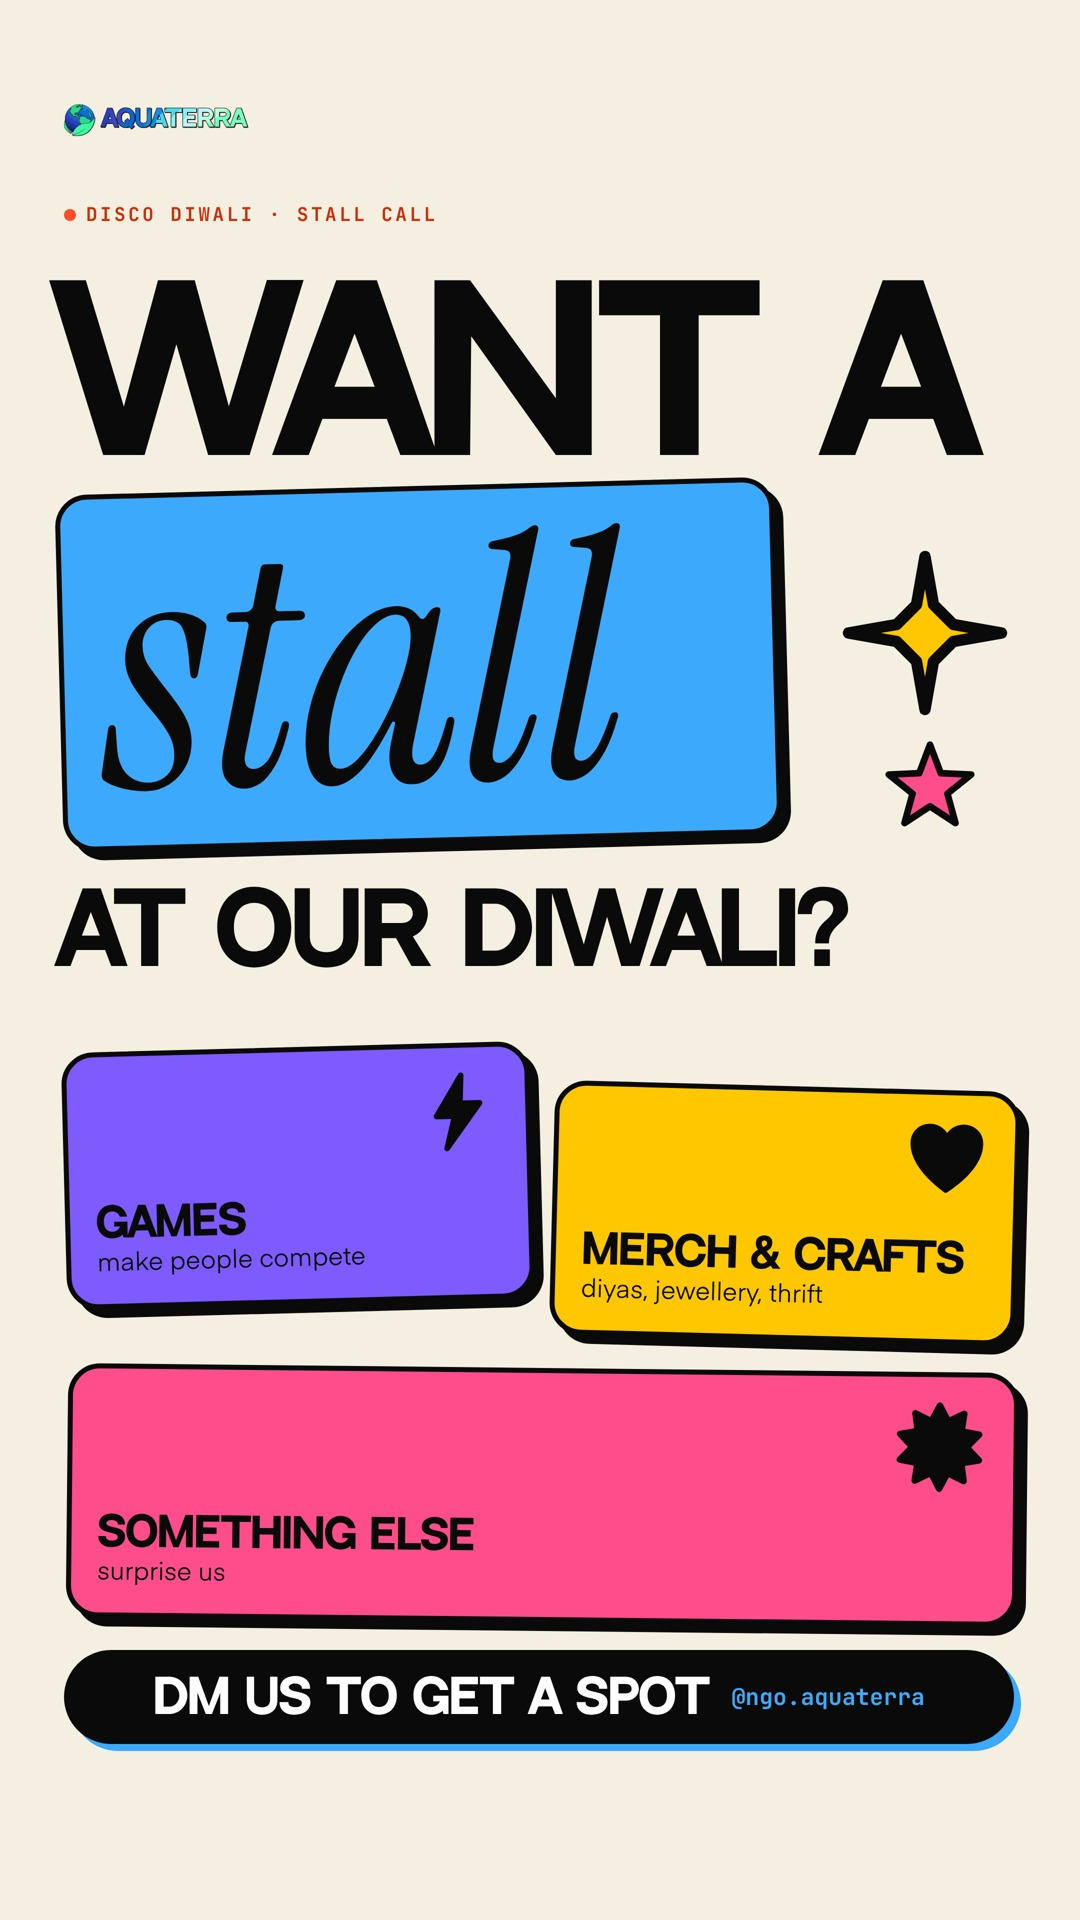
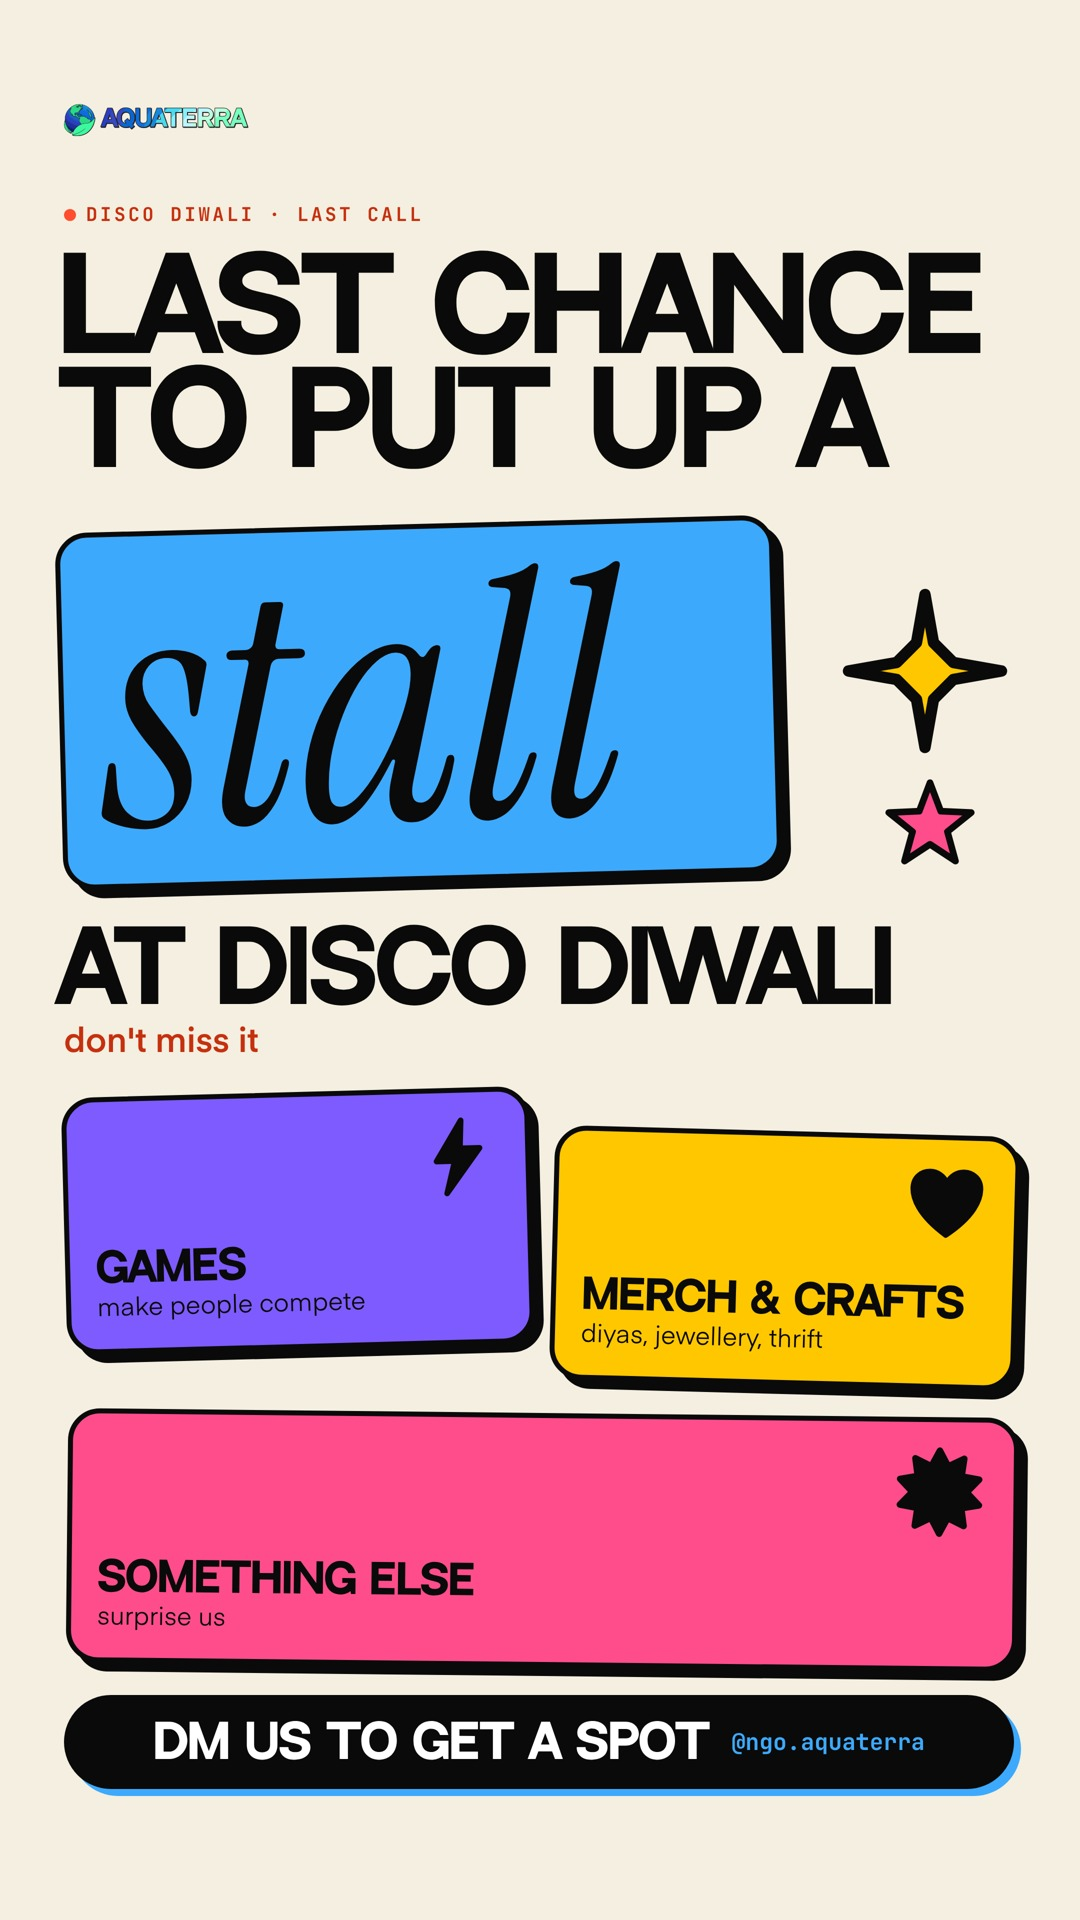
Stall story: 'last chance to put up a stall at Disco Diwali, don't miss it' copy
Claude-Session: https://claude.ai/code/session_017A2oA4MRrkhFzniGBhMWFu

Changed region(s): [[0.0306, 0.0938, 0.9778, 0.8125], [0.0611, 0.7812, 0.9472, 0.9375], [0.7944, 0.2812, 0.9472, 0.4688]]

diff --git a/scratchpad/dd_stall_call_cream.py b/scratchpad/dd_stall_call_cream.py
@@ -1,7 +1,7 @@
 """DISCO DIWALI "WANT A STALL AT OUR DIWALI?" story (1080x1920), AQ house cream style, rebuilt from the user's reference (2026-10-21, "like this").
 
 Workflow B-style bespoke build (core+build+doodles primitives). Reference crop measured at 923x1640, scaled x1.17 to the 1080 canvas.
-Copy is the reference's own, supplied by the user: eyebrow DISCO DIWALI . STALL CALL, headline WANT A / stall / AT OUR DIWALI?, three categories
+Copy is the reference's own, supplied by the user: eyebrow DISCO DIWALI . STALL CALL, headline (user copy, 2026-10-21: "its your last chance to put up a stall at disco diwali, dont miss it") LAST CHANCE / TO PUT UP A / stall / AT DISCO DIWALI + "don't miss it", three categories
 (GAMES make people compete / MERCH & CRAFTS diyas, jewellery, thrift / SOMETHING ELSE surprise us), CTA DM US TO GET A SPOT @ngo.aquaterra.
 NO deadline (user, 2026-10-21). Adaptations: department colours follow the reference (blue tag, purple, lemon, pink) which are all core.ACCENTS; pill label uses core.on_dark.
 Run: PYTHONIOENCODING=utf-8 python scratchpad/dd_stall_call_cream.py"""
@@ -21,21 +21,23 @@ SH = f"box-shadow:9px 9px 0 {INK};"
 parts.append('<div style="position:absolute;inset:0;background:var(--bg)"></div>')
 parts.append(B.logo(y=104)); els.append(("logo", M, 104, 190, 32))
 tomato = core.on_cream(A[3], 19)
-parts.append(f'<div data-tag="eyebrow" style="position:absolute;top:202px;left:{M}px;font-family:var(--m);font-weight:700;font-size:19px;letter-spacing:.14em;text-transform:uppercase;color:{tomato};display:flex;align-items:center;gap:10px;z-index:6"><span style="width:12px;height:12px;border-radius:50%;background:{A[3]}"></span>Disco Diwali &middot; Stall call</div>')
+parts.append(f'<div data-tag="eyebrow" style="position:absolute;top:202px;left:{M}px;font-family:var(--m);font-weight:700;font-size:19px;letter-spacing:.14em;text-transform:uppercase;color:{tomato};display:flex;align-items:center;gap:10px;z-index:6"><span style="width:12px;height:12px;border-radius:50%;background:{A[3]}"></span>Disco Diwali &middot; Last call</div>')
 els.append(("eyebrow", M, 202, 420, 24))
 
 def head(tag, txt, top, size, h):
     parts.append(f'<div data-tag="{tag}" style="position:absolute;left:{M - 6}px;top:{top}px;font-family:var(--d);font-weight:900;font-size:{size}px;line-height:1;text-transform:uppercase;white-space:nowrap;letter-spacing:-.02em;color:var(--ink);z-index:6">{txt}</div>')
     els.append((tag, M, top, 930, h))
-head("h1", "Want a", 272, 216, 216)
+head("h1a", "Last chance", 248, 124, 124)
+head("h1b", "to put up a", 248 + 114, 124, 124)
 # blue tag holding the serif accent word (the ONE Instrument Serif word)
-tx, ty, tw, th = 59, 486, 719, 357
+tx, ty, tw, th = 59, 524, 719, 357
 parts.append(f'<div data-tag="tag" style="position:absolute;left:{tx}px;top:{ty}px;width:{tw}px;height:{th}px;background:{A[4]};border:5px solid {INK};border-radius:{core.RADII["outer"]}px;{SH}transform:rotate(-1.5deg);z-index:5">'
              f'<span data-tag="tagword" style="position:absolute;left:40px;top:0;height:100%;display:flex;align-items:center;font-family:var(--s);font-style:italic;font-size:340px;line-height:1;color:{INK};white-space:nowrap">stall</span></div>')
 els += [("tag", tx, ty - 20, tw + 10, 395), ("tagword", tx + 30, ty - 20, 540, 395)]
-parts.append(doodle("sparkle", 840, 548, 170, A[2])); els.append(("spark", 840, 548, 170, 170))
-parts.append(doodle("star", 880, 738, 100, A[0])); els.append(("star", 880, 738, 100, 100))
-head("h2", "At our diwali?", 884, 96, 96)
+parts.append(doodle("sparkle", 840, 586, 170, A[2])); els.append(("spark", 840, 586, 170, 170))
+parts.append(doodle("star", 880, 776, 100, A[0])); els.append(("star", 880, 776, 100, 100))
+head("h2", "At Disco Diwali", 922, 96, 96)
+parts.append(f'<div data-tag="dmi" style="position:absolute;left:{M}px;top:1026px;font-family:var(--e);font-weight:700;font-size:34px;line-height:1;color:{core.on_cream(A[3], 34)};z-index:6">don\'t miss it</div>'); els.append(("dmi", M, 1026, 230, 36))
 
 def card(tag, x, y, w, h, fill, rot, title, sub, icon, icon_fill, isz):
     fg = core.text_on(fill)
@@ -44,11 +46,11 @@ def card(tag, x, y, w, h, fill, rot, title, sub, icon, icon_fill, isz):
                  f'<div style="font-family:var(--e);font-weight:500;font-size:25px;line-height:1.2;margin-top:6px;text-transform:lowercase">{sub}</div></div>'
                  f'<div data-tag="{tag}_i" style="position:absolute;right:26px;top:22px;width:{isz}px;height:{isz}px">{dd.stamp(icon, icon_fill)}</div></div>')
     els.extend([(tag, x, y, w + 10, h + 10), (tag + "_t", x + 26, y + h - 90, 380, 70), (tag + "_i", x + w - isz - 26, y + 22, isz, isz)])
-card("c1", 64, 1047, 468, 257, A[5], -1.5, "Games", "make people compete", "lightning", INK, 84)
-card("c2", 552, 1086, 466, 254, A[2], 1.5, "Merch &amp; crafts", "diyas, jewellery, thrift", "heart", INK, 84)
-card("c3", 67, 1368, 951, 254, A[0], .6, "Something else", "surprise us", "burst", INK, 96)
+card("c1", 64, 1092, 468, 257, A[5], -1.5, "Games", "make people compete", "lightning", INK, 84)
+card("c2", 552, 1131, 466, 254, A[2], 1.5, "Merch &amp; crafts", "diyas, jewellery, thrift", "heart", INK, 84)
+card("c3", 67, 1413, 951, 254, A[0], .6, "Something else", "surprise us", "burst", INK, 96)
 # CTA pill
-px, py, pw, ph = 64, 1650, 950, 94
+px, py, pw, ph = 64, 1695, 950, 94
 parts.append(f'<div data-tag="pill" style="position:absolute;left:{px}px;top:{py}px;width:{pw}px;height:{ph}px;background:{INK};border-radius:999px;box-shadow:7px 7px 0 {A[4]};display:flex;align-items:center;justify-content:center;gap:22px;z-index:6;white-space:nowrap">'
              f'<span data-tag="pill_a" style="font-family:var(--d);font-weight:900;font-size:46px;color:{core.PAPER};text-transform:uppercase;letter-spacing:-.01em">DM us to get a spot</span>'
              f'<span data-tag="pill_b" style="font-family:var(--m);font-weight:700;font-size:23px;color:{core.on_dark(A[4], 23)}">@ngo.aquaterra</span></div>')
@@ -56,11 +58,11 @@ els += [("pill", px, py, pw + 8, ph + 8), ("pill_a", px + 150, py + 20, 520, 54)
 
 html = B.page(W, H, "var(--bg)", "".join(parts), grain=False)
 containers = ("tag", "c1", "c2", "c3", "pill")
-text_pairs = [("h1", INK, "var(--bg)", 216, True), ("h2", INK, "var(--bg)", 96, True), ("eyebrow", tomato, "var(--bg)", 19, True),
+text_pairs = [("h1a", INK, "var(--bg)", 124, True), ("h1b", INK, "var(--bg)", 124, True), ("dmi", core.on_cream(A[3], 34), "var(--bg)", 34, True), ("h2", INK, "var(--bg)", 96, True), ("eyebrow", tomato, "var(--bg)", 19, True),
               ("pill_a", core.PAPER, INK, 46, True), ("pill_b", core.on_dark(A[4], 23), INK, 23, True)]
 async def main():
     os.makedirs("out/discodiwali/stall_call", exist_ok=True)
     await B.render(html, "out/discodiwali/stall_call/story_cream.png", W, H, elements=els, containers=containers, text_pairs=text_pairs, page_bg="var(--bg)",
-                   collision_ignore=[("h1", "tag"), ("h2", "tag"), ("spark", "tag"), ("star", "tag"), ("h2", "star"), ("tagword", "tag")])
+                   collision_ignore=[("h1b", "tag"), ("h2", "tag"), ("spark", "tag"), ("star", "tag"), ("h2", "star"), ("tagword", "tag")])
     print("done")
 asyncio.run(main())
